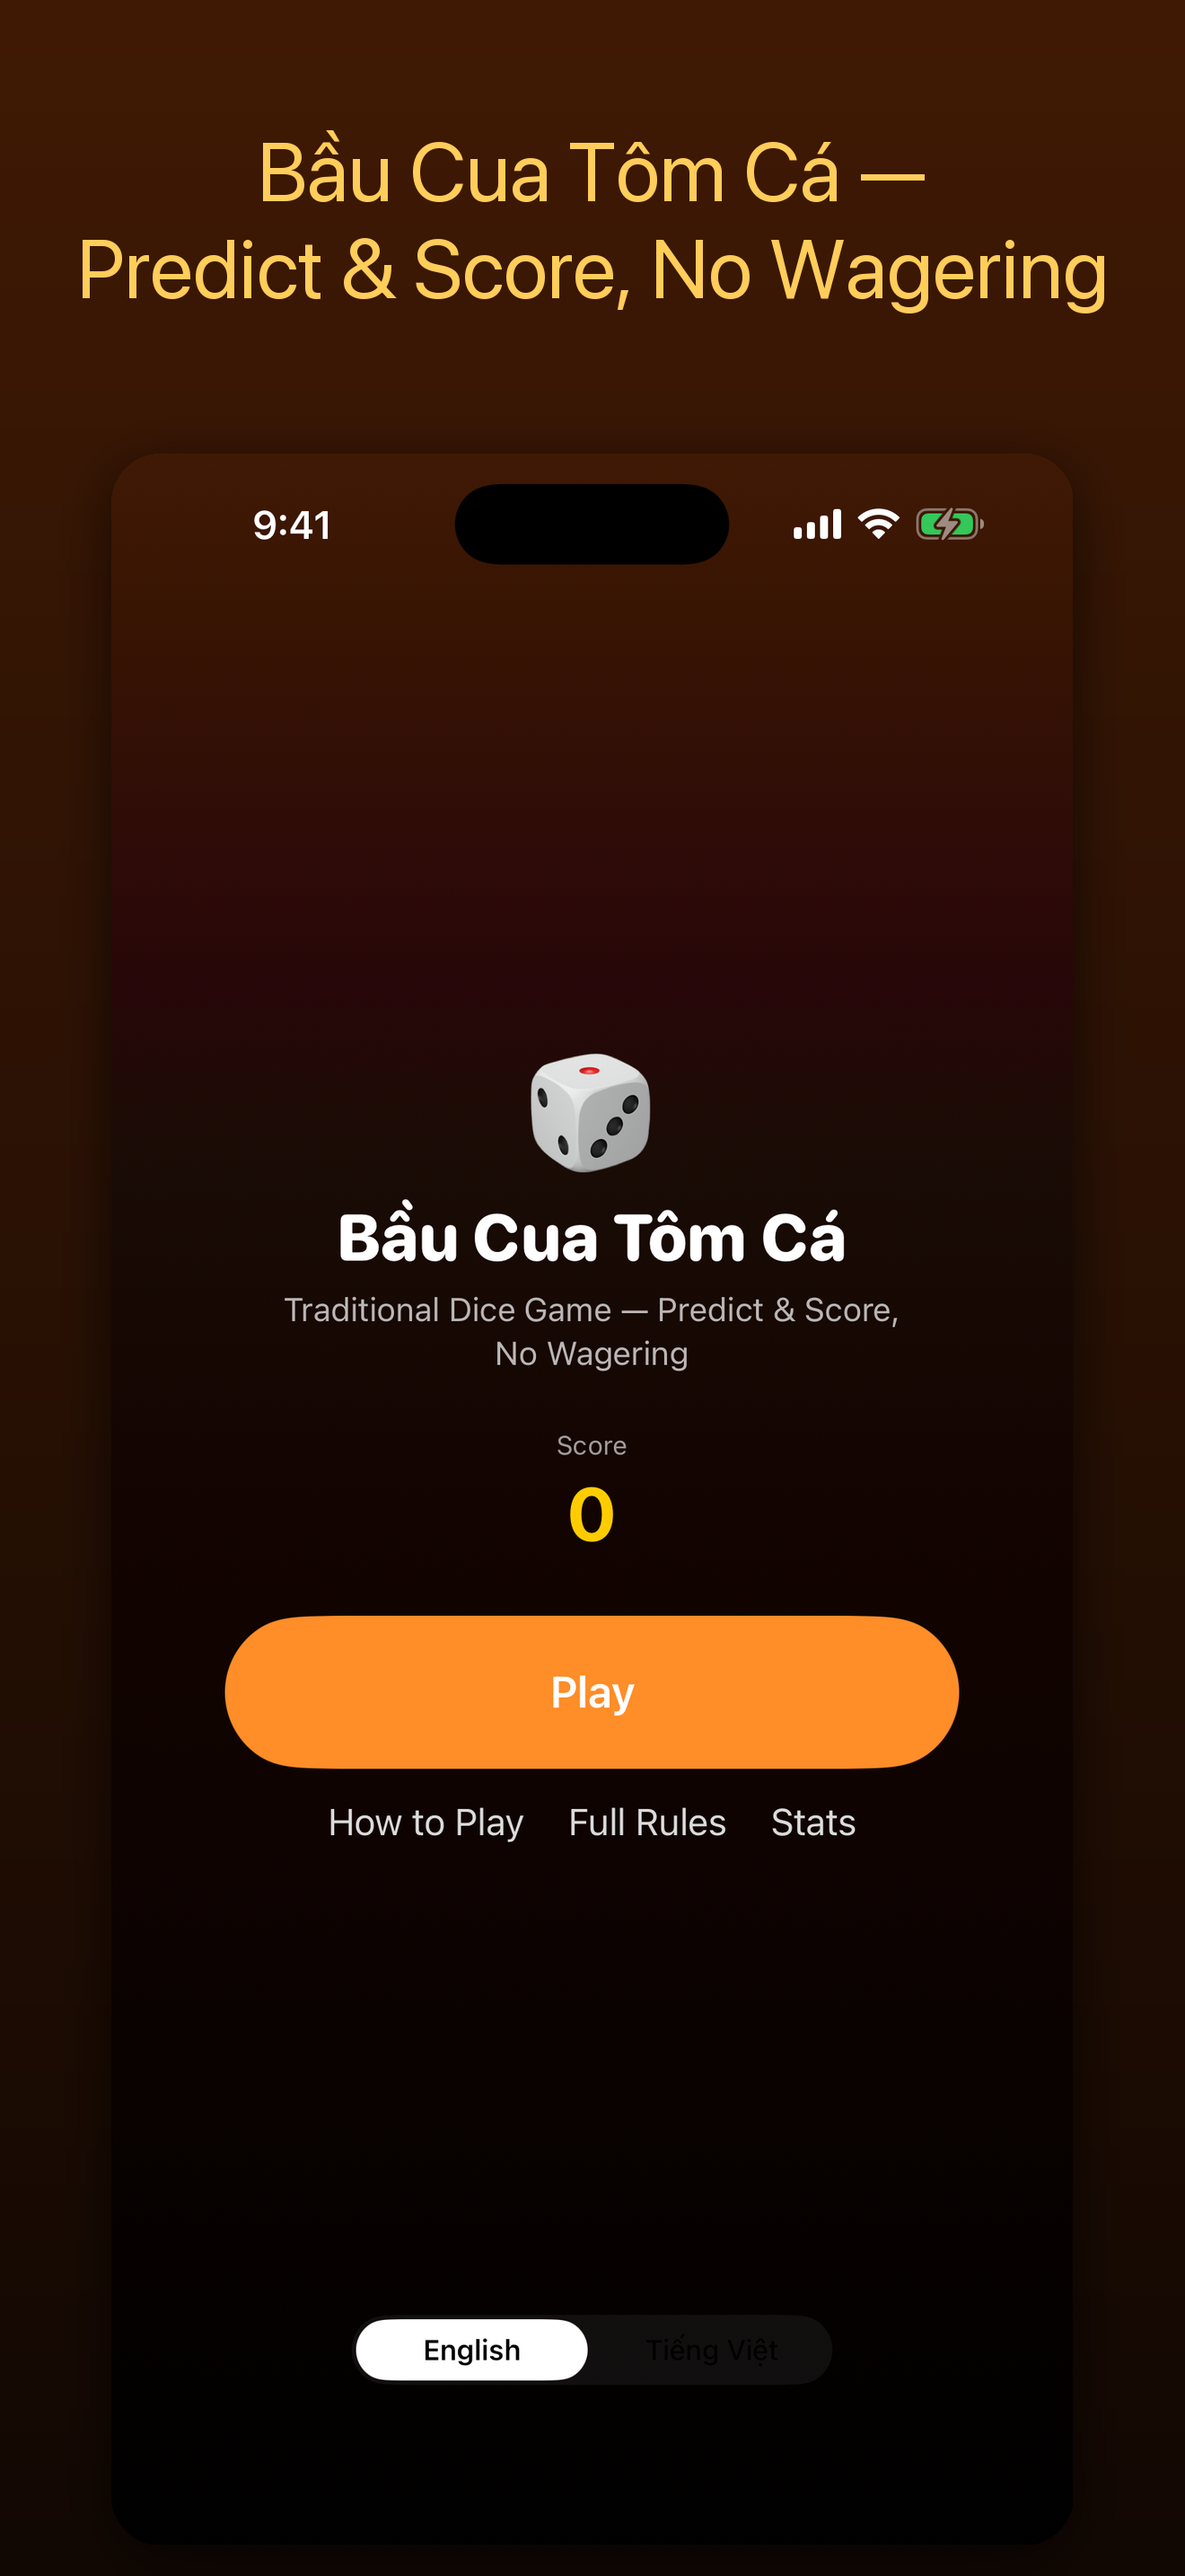
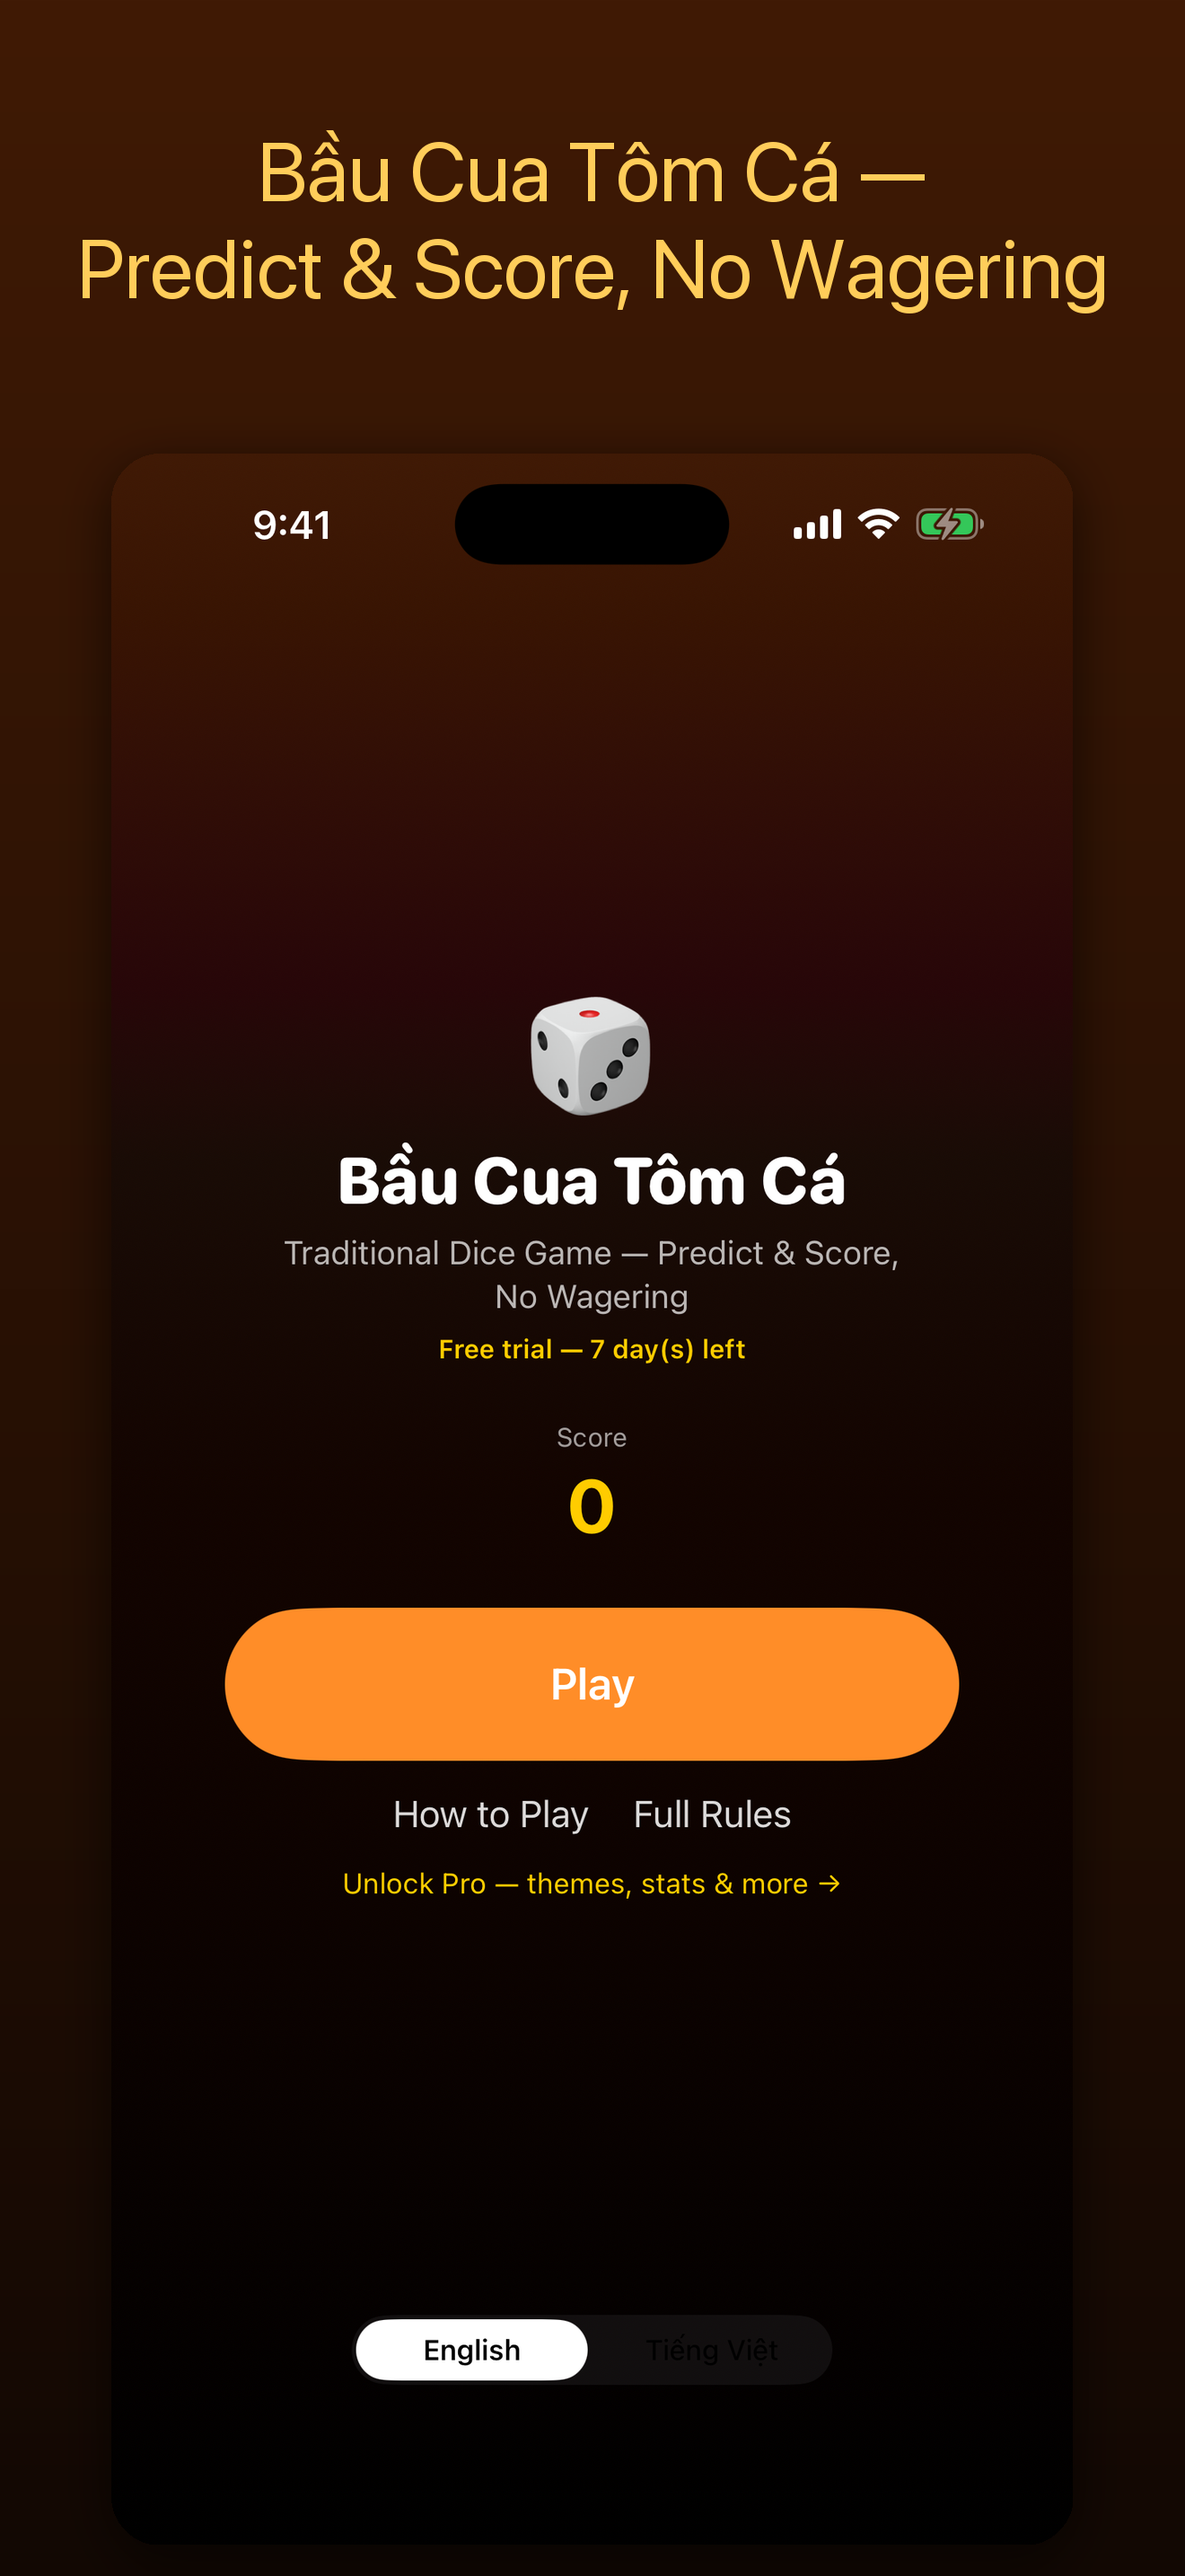
Recapture stale paywall screenshot showing fake-owned state
screenshots/final/{en,vi}/05-upgrade.png predated today's DEBUG isPro fix
and showed "You own Bầu Cua Pro" instead of a real buy button. Added
simctl erase + an 8s settle wait to capture_shots.py and recaptured.

Claude-Session: https://claude.ai/code/session_01WRvSDUBWBn7jn1uQ1ji8Go

Changed region(s): [[0.1864, 0.3724, 0.8076, 0.7448]]

diff --git a/capture_shots.py b/capture_shots.py
@@ -108,12 +108,18 @@ def main():
     print(f"==> device {name}")
     APP = build_app()
     subprocess.run(["xcrun", "simctl", "shutdown", DEVICE], capture_output=True)
+    subprocess.run(["xcrun", "simctl", "erase", DEVICE], capture_output=True)
     subprocess.run(["xcrun", "simctl", "boot", DEVICE], capture_output=True)
     sh("xcrun", "simctl", "bootstatus", DEVICE, "-b")
     subprocess.run(["xcrun", "simctl", "status_bar", DEVICE, "override", "--time", "9:41",
                     "--batteryLevel", "100", "--batteryState", "charged",
                     "--cellularBars", "4", "--wifiBars", "3"], capture_output=True)
     sh("xcrun", "simctl", "install", DEVICE, str(APP))
+    # A freshly-erased simulator can surface a first-boot system notification
+    # banner ("Ready for Apple Intelligence") a few seconds in, which then
+    # auto-dismisses on its own — wait it out before capturing so it doesn't
+    # land in a screenshot (found via vision QA, 2026-08-24).
+    time.sleep(8)
     raw = APP_DIR / "screenshots" / "_raw.png"
     for lang, shots in SHOTS.items():
         out = APP_DIR / "screenshots" / "final" / lang

diff --git a/CLAUDE.md b/CLAUDE.md
@@ -5,6 +5,18 @@ Tôm/Cá/Gà/Nai — gourd/crab/shrimp/fish/rooster/deer). Bundle `com.quyenngo.
 app in a 5-app Vietnamese-games lineup; built following the house pattern established by
 the sibling card game `~/Projects/SamLoc` (bundle `com.quyenngo.samloc`, already shipped).
 
+**2026-08-24 (later same day) — vision QA found the v1.0.2 submission's own paywall
+screenshot is stale and shows the pre-fix bug.** `screenshots/final/{en,vi}/05-upgrade.png`
+was last captured before today's DEBUG isPro fix (the code below was already correct,
+the screenshot on disk — and thus already pushed to ASC with this submission — wasn't)
+and showed "You own Bầu Cua Pro ✓" instead of a real buy button, a fresh install would
+never see that screen. Recaptured both locales after adding a `simctl erase` step to
+`capture_shots.py` (trial-day count wasn't deterministic) and an 8s post-install settle
+wait (a freshly-erased simulator can surface a first-boot system notification that would
+otherwise land in frame). Verified both locales now show the real "Unlock Bầu Cua Pro"
+button. **Not yet pushed to ASC** — v1.0.2 is `WAITING_FOR_REVIEW`; whether its
+screenshots can still be updated mid-review needs the user's call.
+
 **2026-08-24 — v1.0.2 (build 4), DEBUG bug + Swift 6 concurrency fix, SUBMITTED.** Found by
 the new portfolio-wide `~/asc-tools/compliance_gate.py`: `PurchaseManager.
 updateEntitlementStatus()`'s DEBUG branch had a bare `isPro = true`, the same double-gating
